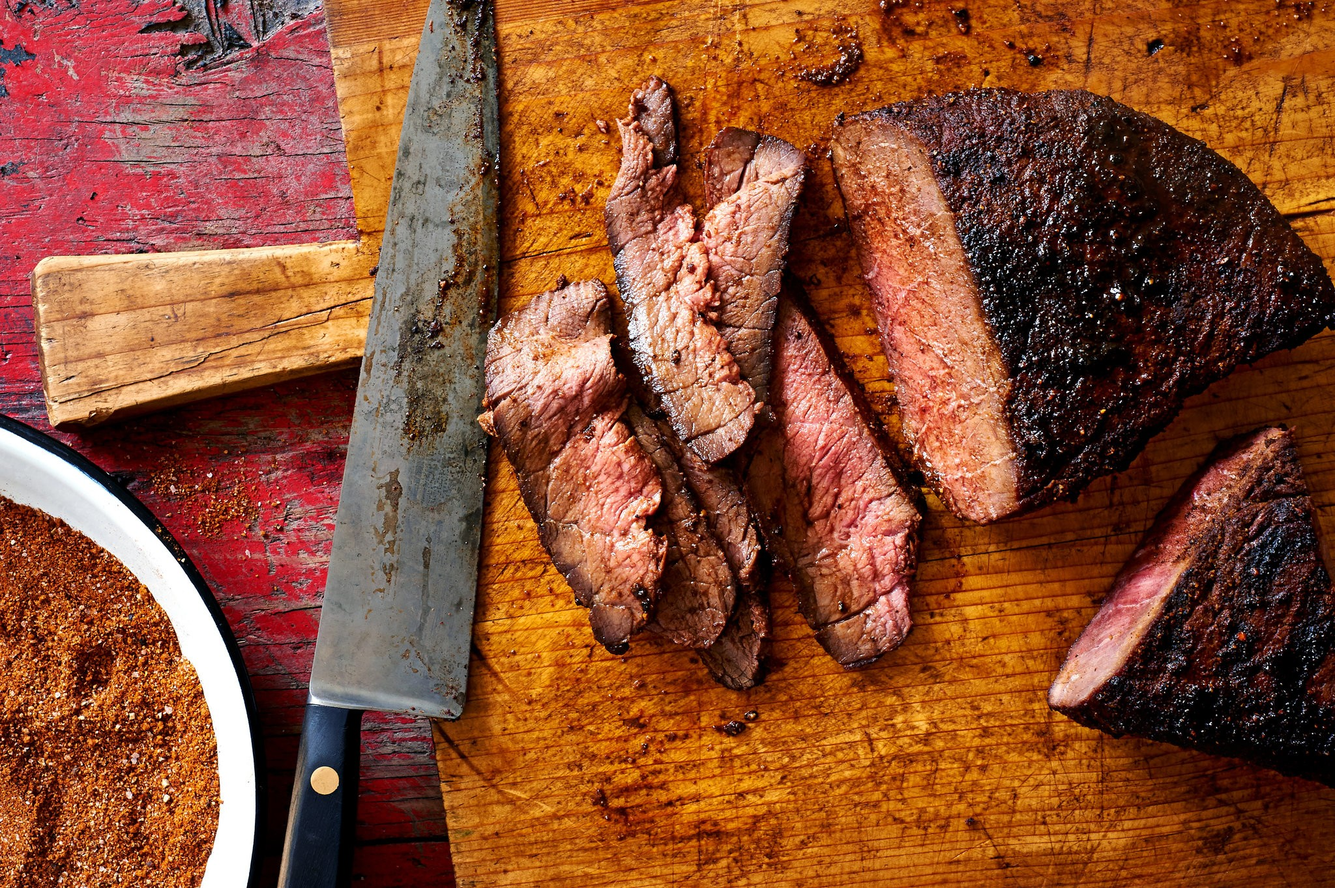
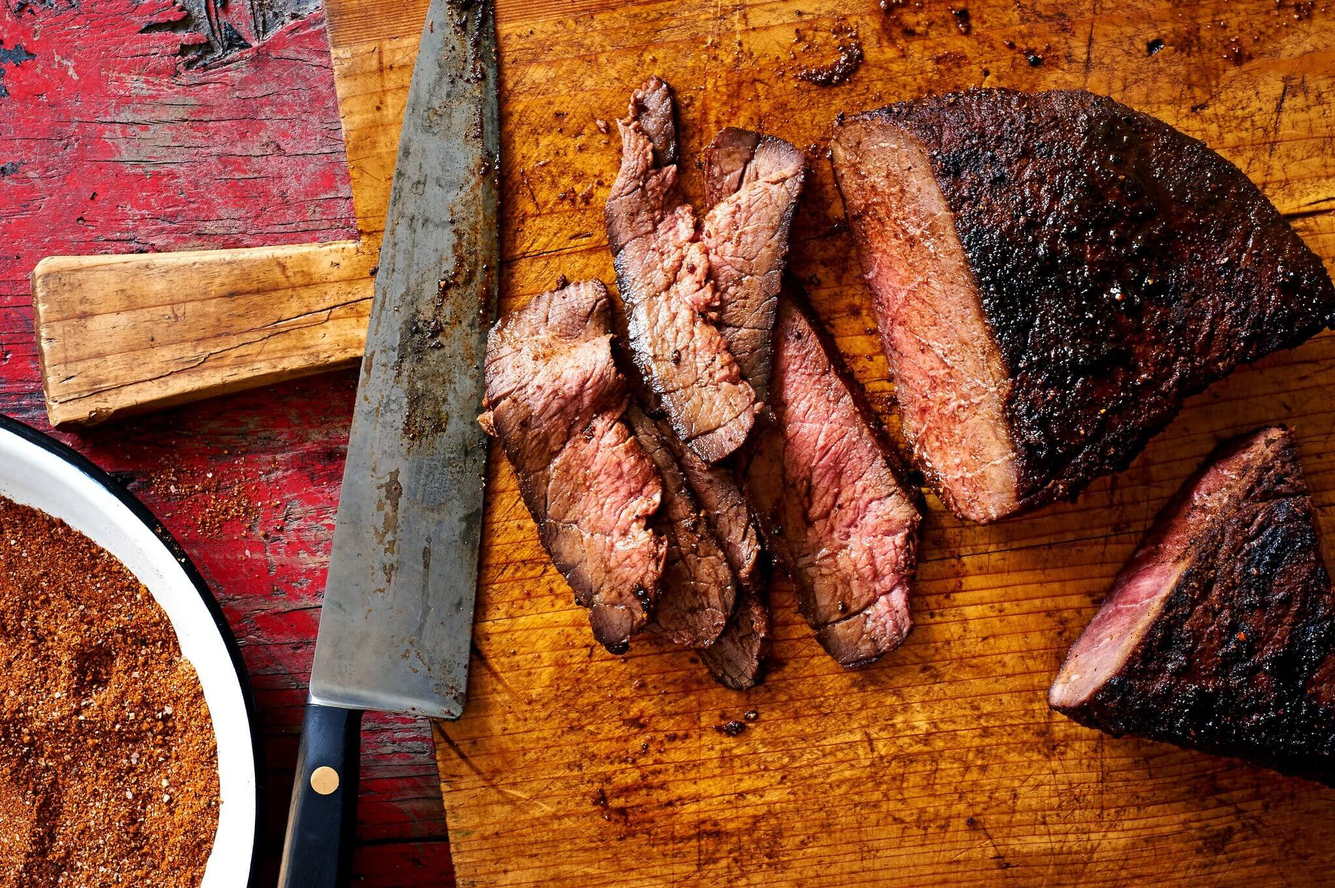
Compresso tutte le immagini

diff --git a/src/App.css b/src/App.css
@@ -607,7 +607,7 @@ a:hover{
 /*MENU*/
 
 .sfondoMenu{
-  background-image:  url("img/blackboard2.jpg");
+  background-image:  url("img/blackboard2.jpeg");
   background-size: cover;
   background-repeat: repeat !important;
   background-position: center center;
@@ -919,7 +919,7 @@ a:hover{
   z-index: 1;
 }
 .sfondoContatti2{
-  background-image:linear-gradient(rgba(255, 255, 255, 0.733), rgba(255,255,255,0.5)), url("img/tempo.jpg") !important;
+  background-image:linear-gradient(rgba(255, 255, 255, 0.733), rgba(255,255,255,0.5)), url("img/tempo.jpeg") !important;
   background-size: cover;
   z-index: 1;
 }

diff --git a/src/components/10.testoContatti.js b/src/components/10.testoContatti.js
@@ -1,11 +1,9 @@
 import React from "react";
 import location from "../img/location.png";
-import clock from "../img/clock.png";
-import telephone from "../img/telephone.png";
 import instagram from "../img/instagram.png";
 import facebook from "../img/facebook.png";
 import milano from "../img/mi.jpg";
-import tempo from "../img/tempo.jpg";
+import tempo from "../img/tempo.jpeg";
 import tel from "../img/preno.jpeg";
 import social from "../img/social.jpg";
 import linktree from "../img/linktree.png";

diff --git a/src/components/5.carosello.js b/src/components/5.carosello.js
@@ -1,8 +1,8 @@
 import React from "react";
 import Fuori from "../img/Fuori.jpg";
-import Panorama from "../img/Panorama.png";
-import angoloGrigio from "../img/angoloGrigio.png";
-import entrataAbruzzo from "../img/EntrataAbruzzo1.jpg";
+import Panorama from "../img/Panorama.jpeg";
+import angoloGrigio from "../img/angoloGrigio.jpeg";
+import entrataAbruzzo from "../img/EntrataAbruzzo1.jpeg";
 import Carousel from 'react-bootstrap/Carousel';
 
 class Carosello extends React.Component {

diff --git a/src/components/8.galleriaImm.js b/src/components/8.galleriaImm.js
@@ -4,7 +4,7 @@ import Carousel from 'react-grid-carousel'
 import pasta from '../img/pastaang.jpg';
 import pane from '../img/paneang.jpg';
 import burrata from '../img/burrataang.jpg';
-import arrosticini from'../img/arrosticiniang.jpg';
+import arrosticini from'../img/arrosticiniang.jpeg';
 import vasi from '../img/vasiang.jpg';
 import murales from '../img/muralesang.jpg';
 import lavagna from '../img/lavagnanag.jpg';

diff --git a/src/components/4.scheletroStoria.js b/src/components/4.scheletroStoria.js
@@ -1,7 +1,7 @@
 import React from "react";
 import Fuori from "../img/Fuori.jpg";
-import Panorama from "../img/Panorama.png";
-import angoloGrigio from "../img/angoloGrigio.png";
+import Panorama from "../img/Panorama.jpeg";
+import angoloGrigio from "../img/angoloGrigio.jpeg";
 import Carosello from "./5.carosello";
 import Testocarosello from "./6.testocarosello";
 

diff --git a/src/components/1.navbar.js b/src/components/1.navbar.js
@@ -1,7 +1,7 @@
 import React, { Component } from "react";
 import "bootstrap/dist/css/bootstrap.min.css";
 import { Nav, Navbar, NavDropdown } from "react-bootstrap";
-import angolo from "../img/EntrataAbruzzo.jpg";
+import angolo from "../img/EntrataAbruzzo.jpeg";
 import PDF from "../pdf/MenuAngoloDabruzzo.pdf";
 import Titoli from "./2.titoli";
 
